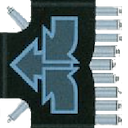
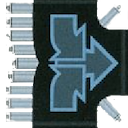
Rotated images to face North

diff --git a/RoboRally/src/main/java/gruppe15/roborally/view/SpaceView.java b/RoboRally/src/main/java/gruppe15/roborally/view/SpaceView.java
@@ -22,6 +22,7 @@
 package gruppe15.roborally.view;
 
 import gruppe15.observer.Subject;
+import gruppe15.roborally.model.Heading;
 import gruppe15.roborally.model.Player;
 import gruppe15.roborally.model.Space;
 import javafx.scene.image.ImageView;
@@ -66,6 +67,10 @@ public class SpaceView extends StackPane implements ViewObserver {
             boardElementImageView.setFitHeight(SPACE_HEIGHT);
             boardElementImageView.setImage(space.getBoardElement().getImage());
             this.getChildren().add(boardElementImageView);
+        }
+
+        for (Heading wall : space.getWalls()) {
+            
         }
 
         /*if ((space.x + space.y) % 2 == 0) {

diff --git a/RoboRally/src/main/java/gruppe15/roborally/controller/AppController.java b/RoboRally/src/main/java/gruppe15/roborally/controller/AppController.java
@@ -36,10 +36,7 @@ import javafx.scene.control.ButtonType;
 import javafx.scene.control.ChoiceDialog;
 import org.jetbrains.annotations.NotNull;
 
-import java.util.ArrayList;
-import java.util.Arrays;
-import java.util.List;
-import java.util.Optional;
+import java.util.*;
 
 /**
  * ...
@@ -99,6 +96,7 @@ public class AppController implements Observer {
                 board.addPlayer(player);
 
                 // Set player spawn
+                Collections.shuffle(spawnPoints);
                 if (spawnPoints.isEmpty()) {
                     player.setSpace(board.getSpace(i % board.width, i));
                 } else {
